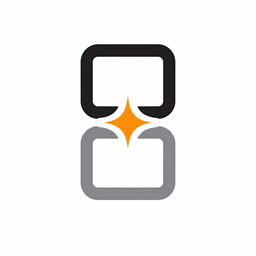
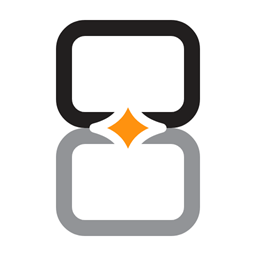
fix(branding): replace generated edges with vectors

Changed region(s): [[0.2188, 0.0625, 0.7812, 0.9375]]

diff --git a/README.md b/README.md
@@ -1,5 +1,5 @@
 <p align="center">
-  <img src="https://raw.githubusercontent.com/JuliusJacobsohn/NdsForge.NET/main/assets/branding/ndsforge-wordmark.png" alt="NdsForge: a dual-screen mark joined by a forge spark" width="720">
+  <img src="https://raw.githubusercontent.com/JuliusJacobsohn/NdsForge.NET/main/assets/branding/ndsforge-wordmark.svg" alt="NdsForge: a dual-screen mark joined by a forge spark" width="720">
 </p>
 
 # NdsForge.NET
